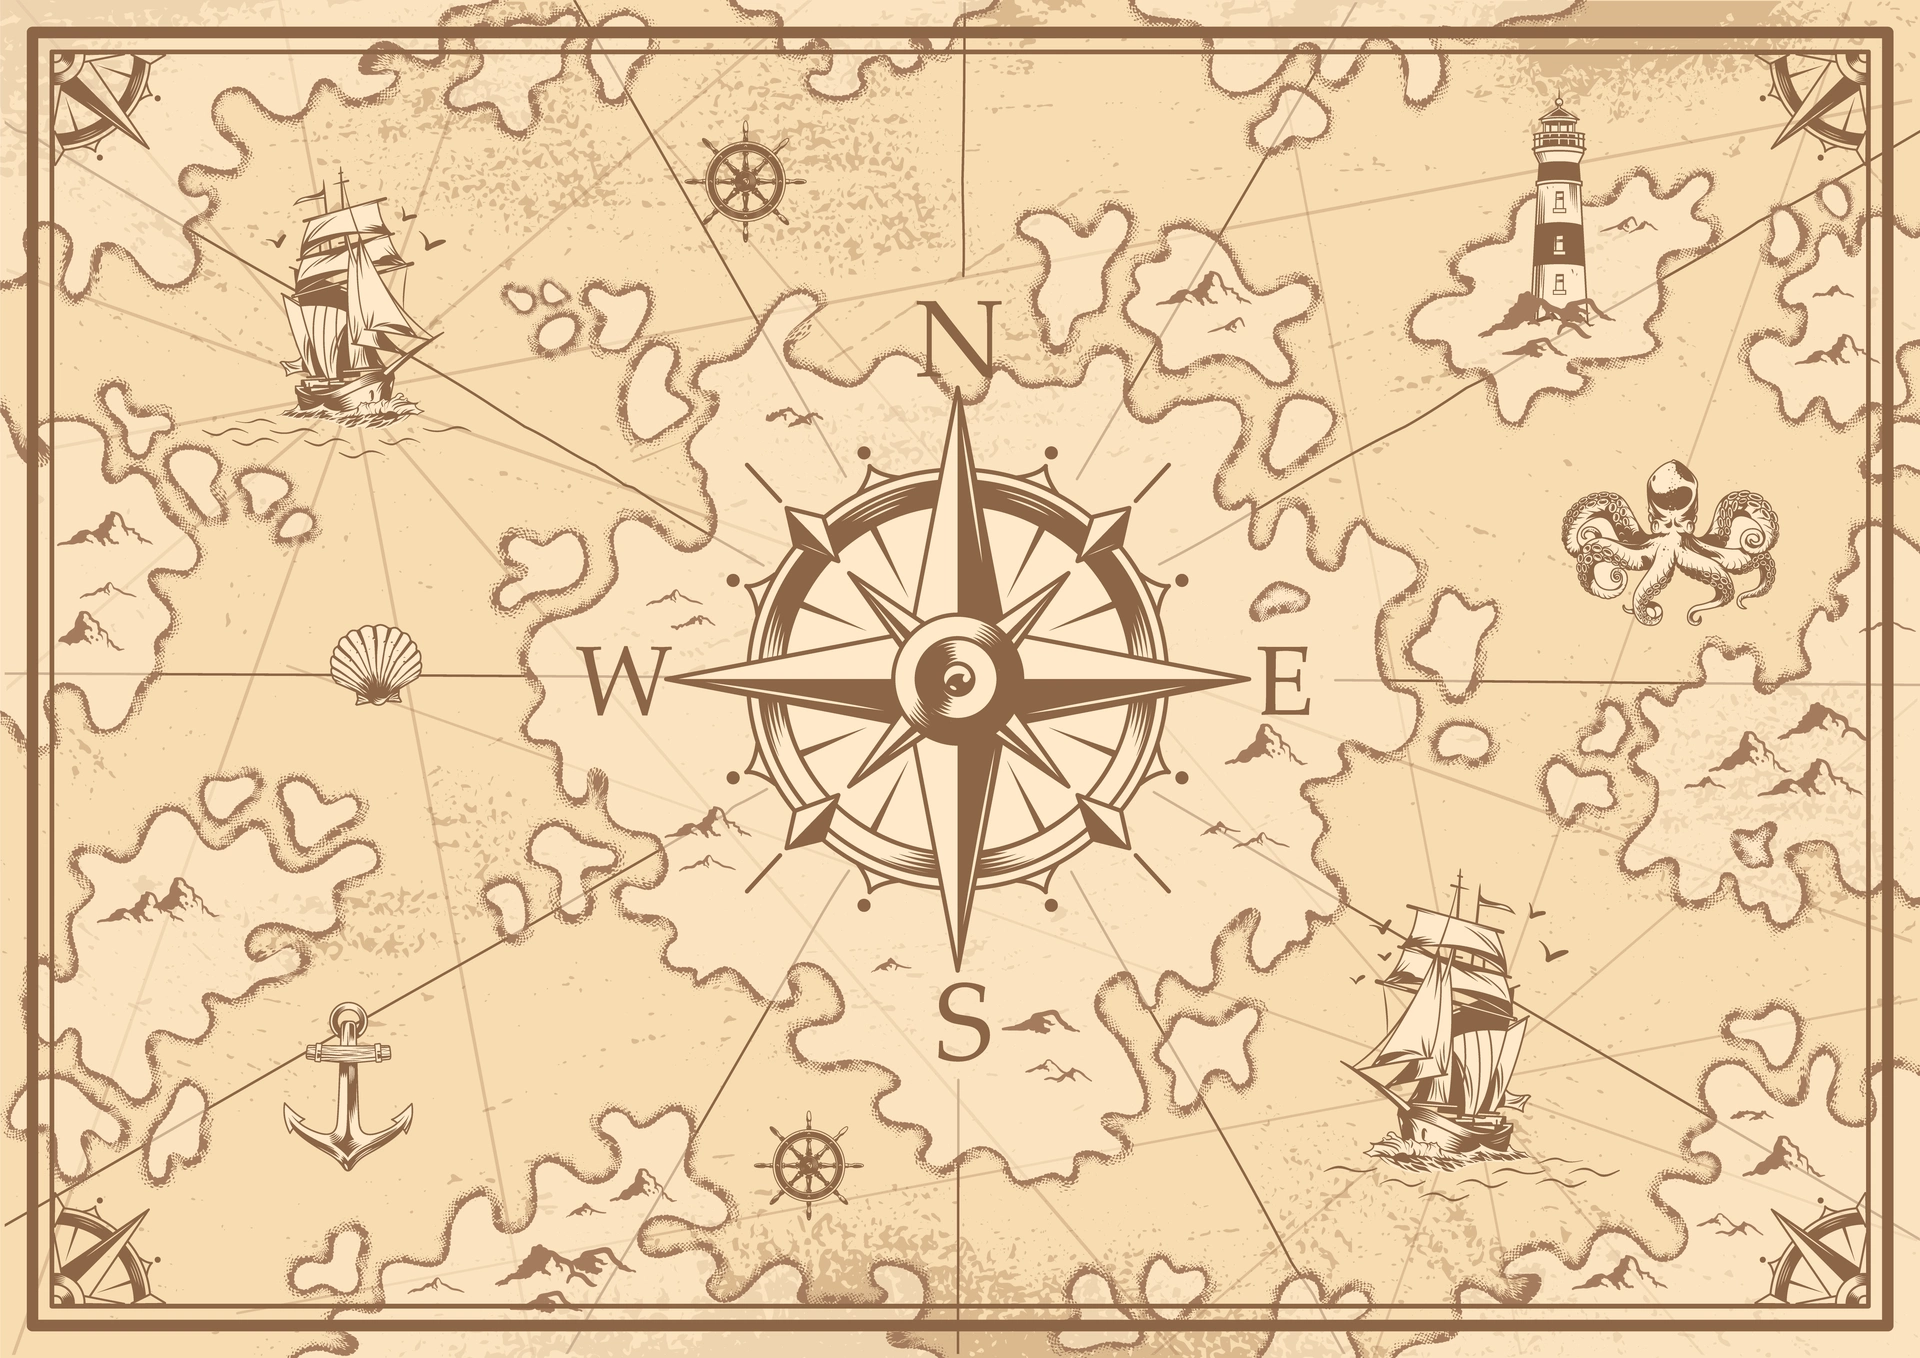
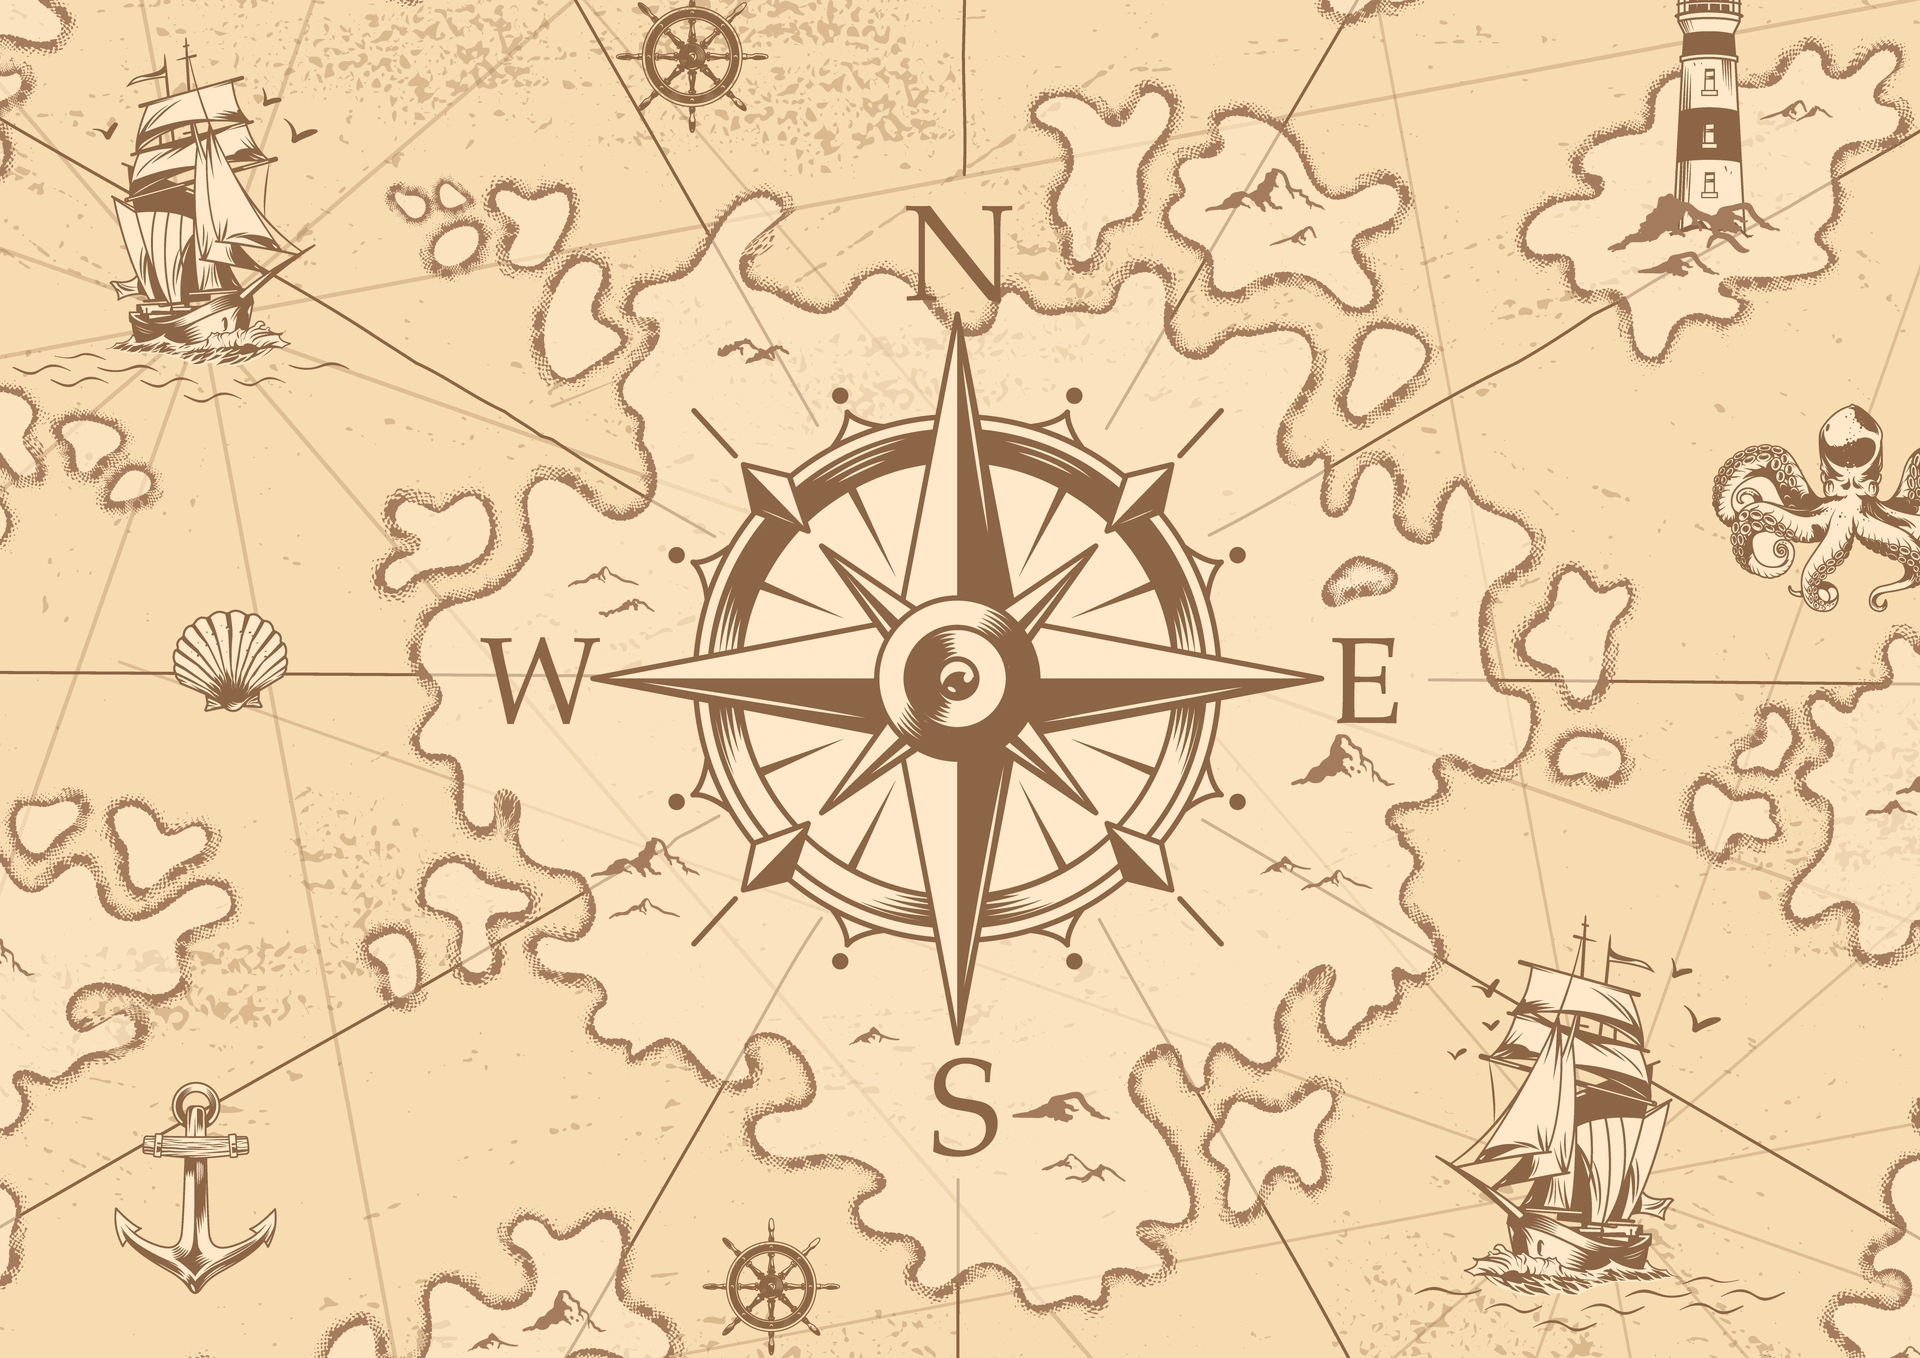
CSS: Margins removed and background added

diff --git a/assets/css/styles.css b/assets/css/styles.css
@@ -1,0 +1,10 @@
+* {
+    margin: 0;
+
+}
+
+body {
+    width: 100vw;
+    height: 100vh;
+    background: center/cover url("../images/background.webp") no-repeat;
+}
